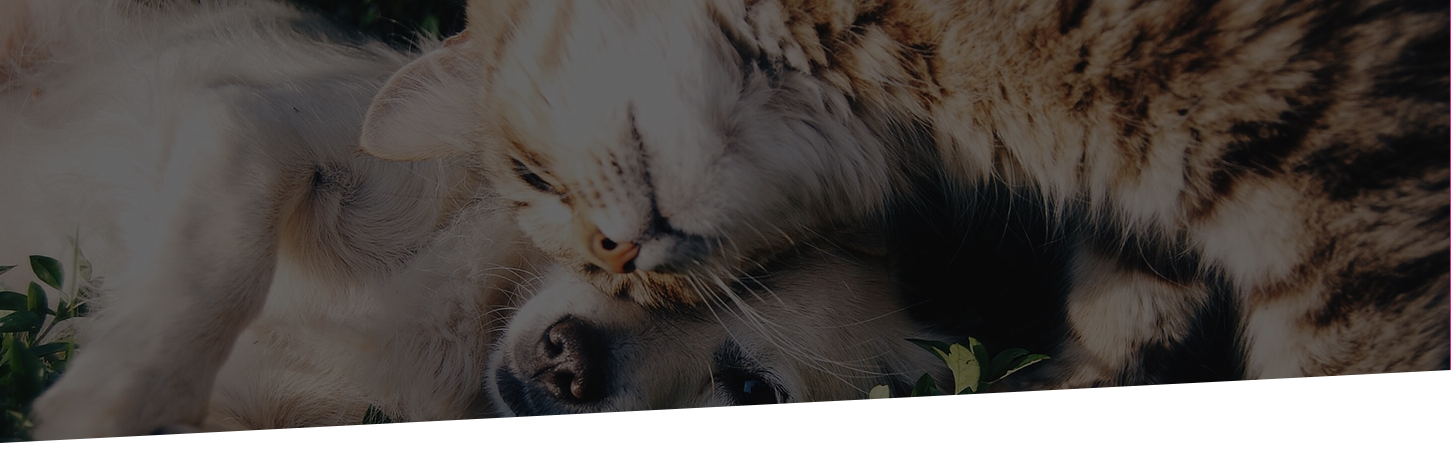
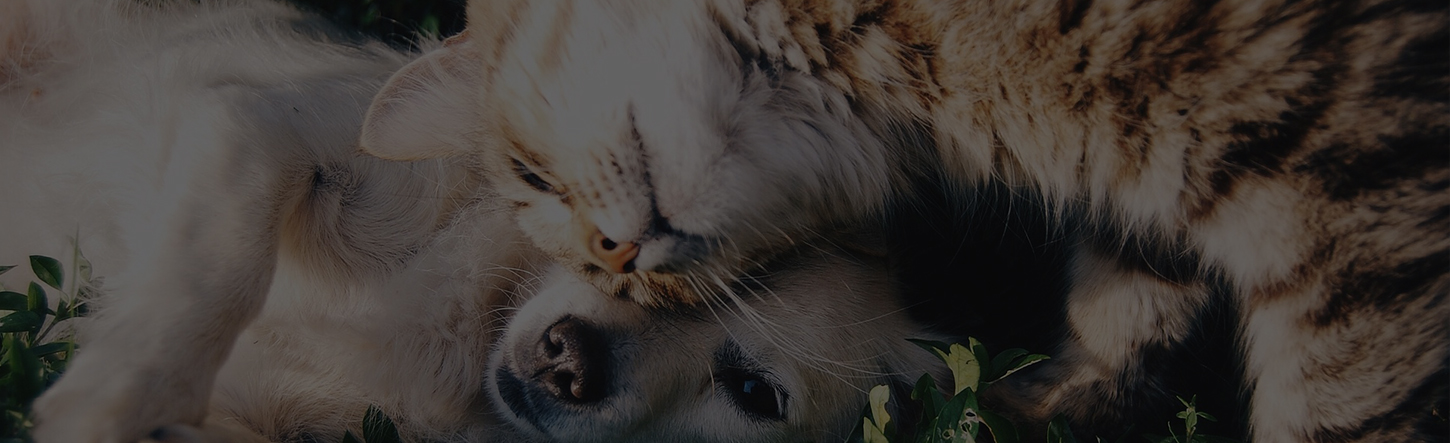
ajustando versao mobile e scroll animado

diff --git a/css/home.css b/css/home.css
@@ -1,1 +1,1 @@
-.paddingTop-1{padding-top:10px}.paddingBottom-1{padding-bottom:10px}.marginBottom-1{margin-bottom:10px}.paddingTop-2{padding-top:20px}.paddingBottom-2{padding-bottom:20px}.marginBottom-2{margin-bottom:20px}.paddingTop-3{padding-top:30px}.paddingBottom-3{padding-bottom:30px}.marginBottom-3{margin-bottom:30px}.paddingTop-4{padding-top:40px}.paddingBottom-4{padding-bottom:40px}.marginBottom-4{margin-bottom:40px}.paddingTop-5{padding-top:50px}.paddingBottom-5{padding-bottom:50px}.marginBottom-5{margin-bottom:50px}.paddingTop-6{padding-top:60px}.paddingBottom-6{padding-bottom:60px}.marginBottom-6{margin-bottom:60px}.paddingTop-7{padding-top:70px}.paddingBottom-7{padding-bottom:70px}.marginBottom-7{margin-bottom:70px}.paddingTop-8{padding-top:80px}.paddingBottom-8{padding-bottom:80px}.marginBottom-8{margin-bottom:80px}.paddingTop-9{padding-top:90px}.paddingBottom-9{padding-bottom:90px}.marginBottom-9{margin-bottom:90px}.paddingTop-10{padding-top:100px}.paddingBottom-10{padding-bottom:100px}.marginBottom-10{margin-bottom:100px}.roxo{color:#b92a75}.roxoEscuro{color:#901656}.azul{color:#447df7}body{font-family:'Roboto', sans-serif}.navbar{border-top:2px solid #fff;font-size:1.3rem}.navbar a{color:#fff}.navbar a:hover{background-color:transparent !important;border-bottom:2px solid #901656;transition:ease 0.2s}.navbar i{color:#fff}.nav>li>a:focus{background-color:transparent}.menuScroll{background:rgba(144,22,86,0.9);transition:ease 0.2s}.menuScroll a{color:#fff}.menuScroll a:hover{background-color:#fff !important;color:#901656;border-bottom:none;transition:ease 0.6s}h1,h2,h3,h4{text-transform:uppercase}.cta{color:#fff;background:#b92a75;border-bottom:2px solid #901656}.cta:hover{color:#fff;background:#901656;transition:ease 0.2s}.wellcome{background:url("../img/fundo-header.png") no-repeat;color:#fff;min-height:500px}.wellcome p{font-size:1.3rem}.wellcome .mockup{position:relative;top:130px}.wellcome h2{font-size:2rem}.wellcome h3{font-size:1.5rem}.blocoCta{background:url("../img/bloco-cta.png") no-repeat;background-size:cover}.blocoCta h4,.blocoCta p{color:#fff}footer{background:#151515;color:#fff}footer p{font-size:10px}.text-center .img-responsive{margin:0 auto}@media screen and (max-width: 800px){.navbar{background:rgba(144,22,86,0.9);text-align:center}.navbar a{font-size:2rem}.navbar a:hover{border:none;color:#b92a75}.logo{margin-top:50px}h2{font-size:2rem}h3{font-size:1.5rem}p{font:1rem}.wellcome .mockup{top:0}}.moda-ja-cadastrado{border-right:1px solid #ccc}
+.paddingTop-1{padding-top:10px}.paddingBottom-1{padding-bottom:10px}.marginBottom-1{margin-bottom:10px}.paddingTop-2{padding-top:20px}.paddingBottom-2{padding-bottom:20px}.marginBottom-2{margin-bottom:20px}.paddingTop-3{padding-top:30px}.paddingBottom-3{padding-bottom:30px}.marginBottom-3{margin-bottom:30px}.paddingTop-4{padding-top:40px}.paddingBottom-4{padding-bottom:40px}.marginBottom-4{margin-bottom:40px}.paddingTop-5{padding-top:50px}.paddingBottom-5{padding-bottom:50px}.marginBottom-5{margin-bottom:50px}.paddingTop-6{padding-top:60px}.paddingBottom-6{padding-bottom:60px}.marginBottom-6{margin-bottom:60px}.paddingTop-7{padding-top:70px}.paddingBottom-7{padding-bottom:70px}.marginBottom-7{margin-bottom:70px}.paddingTop-8{padding-top:80px}.paddingBottom-8{padding-bottom:80px}.marginBottom-8{margin-bottom:80px}.paddingTop-9{padding-top:90px}.paddingBottom-9{padding-bottom:90px}.marginBottom-9{margin-bottom:90px}.paddingTop-10{padding-top:100px}.paddingBottom-10{padding-bottom:100px}.marginBottom-10{margin-bottom:100px}.roxo{color:#b92a75}.roxoEscuro{color:#901656}.azul{color:#447df7}body{font-family:'Roboto', sans-serif}.navbar{border-top:2px solid #fff;font-size:1.3rem}.navbar a{color:#fff}.navbar a:hover{background-color:transparent !important;border-bottom:2px solid #901656;transition:ease 0.2s}.navbar i{color:#fff}.nav>li>a:focus{background-color:transparent}.menuScroll{background:rgba(144,22,86,0.9);transition:ease 0.2s}.menuScroll a{color:#fff}.menuScroll a:hover{background-color:#fff !important;color:#901656;border-bottom:none;transition:ease 0.6s}h1,h2,h3,h4{text-transform:uppercase}.cta{color:#fff;background:#b92a75;border-bottom:2px solid #901656}.cta:hover{color:#fff;background:#901656;transition:ease 0.2s}.wellcome{background:url("../img/fundo-header.jpg") no-repeat fixed;position:relative;color:#fff;background-size:cover}.wellcome p{font-size:1.3rem}.wellcome .mockup{position:relative;top:80px;z-index:1}.wellcome h2{font-size:2rem}.wellcome h3{font-size:1.5rem}.border-clip{-webkit-clip-path:polygon(100% 0, 100% 0, 100% 100%, 0 100%);clip-path:polygon(0 0, 1600px 0, 1600px 87%, 0 100%);background:#fff;width:100%;height:40px;position:absolute;left:0;bottom:0%}.blocoCta{background:url("../img/bloco-cta.png") no-repeat;background-size:cover}.blocoCta h4,.blocoCta p{color:#fff}footer{background:#151515;color:#fff}footer p{font-size:10px}.text-center .img-responsive{margin:0 auto}@media screen and (max-width: 800px){.navbar{background:rgba(144,22,86,0.9);text-align:center}.navbar a{font-size:2rem}.navbar a:hover{border:none;color:#b92a75}.logo{margin-top:50px}h2{font-size:2rem}h3{font-size:1.5rem}p{font:1rem}.wellcome .mockup{top:0}}.moda-ja-cadastrado{border-right:1px solid #ccc}

diff --git a/index.html b/index.html
@@ -6,13 +6,13 @@
   <meta name="viewport" content="width=device-width, initial-scale=1.0">
   <meta name="author" content="Curitiba Software">
   <title>Meu Consultório Pet - Curitiba Software </title>
-  <link rel="shortcut icon" href="">
+  <link rel="shortcut icon" href="favicon.ico">
   <!-- Latest compiled and minified CSS -->
   <link rel="stylesheet" href="https://maxcdn.bootstrapcdn.com/bootstrap/3.3.7/css/bootstrap.min.css" integrity="sha384-BVYiiSIFeK1dGmJRAkycuHAHRg32OmUcww7on3RYdg4Va+PmSTsz/K68vbdEjh4u" crossorigin="anonymous">
   <link href="https://fonts.googleapis.com/css?family=Roboto" rel="stylesheet">
   <link rel="stylesheet" href="css/animate.css">
   <link rel="stylesheet" href="css/home.css">
-    <link rel="stylesheet" href="css/bootstrap-social.css">
+  <link rel="stylesheet" href="css/bootstrap-social.css">
   <!--[if IE]>
     <script src="https://cdnjs.cloudflare.com/ajax/libs/html5shiv/3.7.3/html5shiv.min.js"></script>
     <script src="https://cdnjs.cloudflare.com/ajax/libs/respond.js/1.4.2/respond.min.js"></script>
@@ -28,7 +28,7 @@
       <div class="collapse navbar-collapse navbar-right">
         <ul class="nav navbar-nav">
           <li class="active"><a href="#">Home</a></li>
-          <li><a href="#about">Saiba mais</a></li>
+          <li><a href="#saibaMais" id="about">Saiba mais</a></li>
           <li><a href="#fiquePorDentro">Fique por dentro</a></li>
           <li><a href="#contato" data-toggle="modal" data-target="#contatoModal">Contato</a></li>
         </ul>
@@ -36,7 +36,7 @@
       <!--.nav-collapse -->
     </div>
   </nav>
-  <div class="container-fluid wellcome paddingBottom-2">
+  <div class="container-fluid wellcome paddingBottom-2 marginBottom-5">
     <div class="container">
       <div class="col-md-12">
         <div class="col-md-7 text-center paddingTop-2">
@@ -49,8 +49,9 @@
         <div class="col-md-5"> <img src="img/mockup-screen.png" alt="Exemplos de telas" class="mockup wow bounceInDown" data-wow-delay="0.2s"> </div>
       </div>
     </div>
+    <div class="border-clip"></div>
   </div>
-  <section class="container wow bounceIn">
+  <section class="container wow bounceIn" id="saibaMais">
     <div class="col-md-12 text-center">
       <h2>Vestibulum ante ipsum primis in faucibus </h2>
       <p>Vestibulum ante ipsum primis in faucibus orci luctus et ultrices posuere cubilia Curae; Donec velit neque, auctor sit amet aliquam vel, ullamcorper sit amet ligula. Lorem ipsum dolor sit amet, consectetur adipiscing elit. Curabitur aliquet quam id dui posuere blandit. Cras.</p>

diff --git a/js/wellcome.js b/js/wellcome.js
@@ -1,20 +1,29 @@
 //<!--INICIANDO ANIMAÇÕES-->
 new WOW().init();
-
-$(function() {
-  $(window).on("scroll", function() {
-    if($(window).scrollTop() > 100) {
+$(function () {
+  $(window).on("scroll", function () {
+    if ($(window).scrollTop() > 100) {
       $(".nav-pet").addClass("menuScroll");
-    } else {
+    }
+    else {
       $(".nav-pet").removeClass("menuScroll");
     }
   });
 });
-$(".fa-bars").click(function(){
-  if($(this).hasClass("fa-bars")){
+$(".fa-bars").click(function () {
+  if ($(this).hasClass("fa-bars")) {
     $(this).removeClass("fa-bars");
     $(this).addClass("fa-times");
-  }else{
+  }
+  else {
     $(this).addClass("fa-bars");
   }
 })
+$(function () {
+  $('a').bind('click', function (event) {
+    var $anchor = $(this);
+    $('html, body').stop().animate({
+      scrollTop: $($anchor.attr('href')).offset().top
+    }, 1000, 'linear');
+  });
+});

diff --git a/assets/css/home.scss b/assets/css/home.scss
@@ -50,15 +50,17 @@ h1, h2, h3, h4{
   }
 }
 .wellcome{
-  background:url('../img/fundo-header.png')no-repeat;
+  background:url('../img/fundo-header.jpg')no-repeat fixed;
+  position: relative;
   color: #fff;
-  min-height:500px; 
+  background-size: cover;
   p{
     font-size: 1.3rem;
   }
   .mockup{
     position: relative;
-    top: 130px;
+    top: 80px;
+    z-index: 1;
   }
   h2{
     font-size: 2rem;
@@ -67,7 +69,16 @@ h1, h2, h3, h4{
     font-size: 1.5rem;
   }
 }
-
+.border-clip{
+    -webkit-clip-path: polygon(100% 0, 100% 0, 100% 100%, 0 100%);
+    clip-path: polygon(0 0, 1600px 0, 1600px 87%, 0 100%);
+    background: #fff;
+    width: 100%;
+    height: 40px;
+    position: absolute;
+    left: 0;
+    bottom: 0%;
+}
 .blocoCta{
    background:url('../img/bloco-cta.png')no-repeat;
   background-size: cover;
